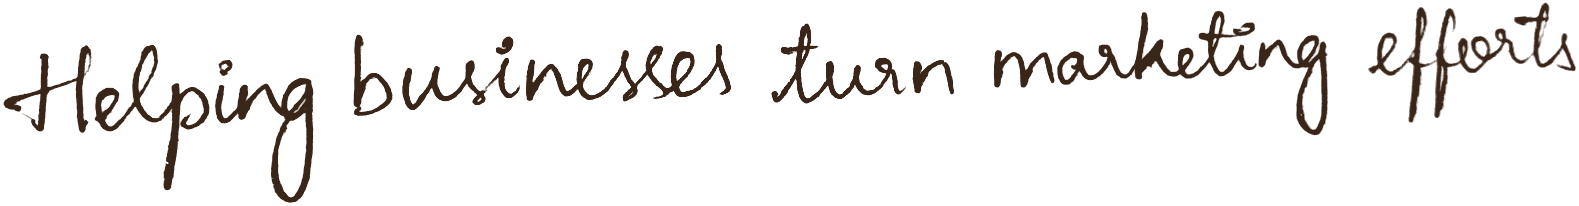
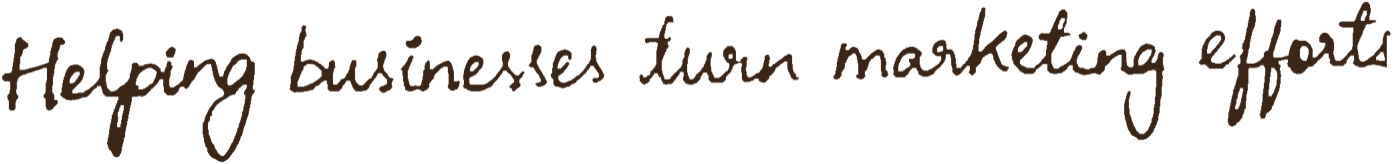
Handwriting: new samples, ruled lines removed, word gaps evened, lines straightened to match her name

Changed region(s): [[0.0, 0.0, 1.0, 1.0]]

diff --git a/index.html b/index.html
@@ -11,11 +11,11 @@
 <link rel="preconnect" href="https://fonts.googleapis.com" />
 <link rel="preconnect" href="https://fonts.gstatic.com" crossorigin />
 <link href="https://fonts.googleapis.com/css2?family=Fraunces:opsz,wght,SOFT@9..144,400..800,50&display=swap" rel="stylesheet" />
-<link rel="stylesheet" href="styles/main.css?v=20261111q" />
+<link rel="stylesheet" href="styles/main.css?v=20261111r" />
 <link rel="icon" type="image/png" href="assets/logo-hy.png" />
 <!-- first-screen images: start downloading immediately (keep ?v in sync with ASSET_V in app.js) -->
-<link rel="preload" as="image" href="assets/objects/notebook.avif?v=20261111q" fetchpriority="high" />
-<link rel="preload" as="image" href="assets/signature.png?v=20261111q" fetchpriority="high" />
+<link rel="preload" as="image" href="assets/objects/notebook.avif?v=20261111r" fetchpriority="high" />
+<link rel="preload" as="image" href="assets/signature.png?v=20261111r" fetchpriority="high" />
 
 <!-- JSON-LD -->
 <script type="application/ld+json">
@@ -177,6 +177,6 @@
 <script src="vendor/ScrollTrigger.min.js"></script>
 <script src="vendor/lenis.min.js"></script>
 
-<script type="module" src="scripts/app.js?v=20261111q"></script>
+<script type="module" src="scripts/app.js?v=20261111r"></script>
 </body>
 </html>

diff --git a/scripts/app.js b/scripts/app.js
@@ -1,9 +1,9 @@
 // app.js — motion orchestration, desk interactions, section rendering.
-import { play, playFile } from "./sound.js?v=20261111q";
-import { initMusic } from "./music.js?v=20261111q";
+import { play, playFile } from "./sound.js?v=20261111r";
+import { initMusic } from "./music.js?v=20261111r";
 import {
   meta, about, kit, tools, experience, projects, playlist,
-} from "./content.js?v=20261111q";
+} from "./content.js?v=20261111r";
 
 const { gsap, ScrollTrigger, Lenis } = window;
 gsap.registerPlugin(ScrollTrigger);
@@ -13,7 +13,7 @@ const isMobile = matchMedia("(max-width: 860px)").matches;
 const $ = (s, r = document) => r.querySelector(s);
 const $$ = (s, r = document) => [...r.querySelectorAll(s)];
 // bump with the ?v= in index.html whenever an image in assets/ is replaced, so browsers refetch it
-const ASSET_V = "20261111q";
+const ASSET_V = "20261111r";
 
 // ------------------------------------------------------------------
 // Single shared RAF: Lenis + GSAP ticker

diff --git a/scripts/content.js b/scripts/content.js
@@ -58,8 +58,8 @@ export const kit = [
       // her own handwriting for the title and tagline (transparent PNGs, ink #3A2618).
       // Each entry = the lines of one block; the text above stays for screen readers / search.
       hand: [
-        [{ src: "assets/hand-title.png", w: 1310, h: 291, tilt: 2 }],
-        [{ src: "assets/hand-tagline-1.png", w: 1579, h: 206, tilt: 1.4 }, { src: "assets/hand-tagline-2.png", w: 895, h: 147, tilt: 2.4 }],
+        [{ src: "assets/hand-title.png", w: 1400, h: 285, tilt: 1.7 }],
+        [{ src: "assets/hand-tagline-1.png", w: 1393, h: 164, tilt: 1.2 }, { src: "assets/hand-tagline-2.png", w: 842, h: 131, tilt: 1.2 }],
       ] },
     desk: { x: 19, y: 12, w: 58, r: -10 },
     chaos: { x: 3, y: 53, w: 38, r: 0 },   // chaos mode: pushed to the bottom-left corner

diff --git a/styles/main.css b/styles/main.css
@@ -311,11 +311,11 @@ section { position: relative; }
 .hand { height: auto; display: block; }
 .kit__type .hand[src*="hand-title"] { width: 40cqw; }
 .kit__type .hand[src*="hand-tagline-1"] { width: 58cqw; }
-.kit__type .hand[src*="hand-tagline-2"] { width: 32.9cqw; margin-top: -1.4cqw; }
+.kit__type .hand[src*="hand-tagline-2"] { width: 35cqw; margin-top: -.6cqw; }
 .kit__sign + .kit__type:has(.hand) { margin-top: 2.2cqw; }
 .chaos-ink__title .hand { width: 21cqw; }
 .chaos-ink__tag .hand[src*="hand-tagline-1"] { width: 30.4cqw; }
-.chaos-ink__tag .hand[src*="hand-tagline-2"] { width: 17.2cqw; margin-top: -.75cqw; }
+.chaos-ink__tag .hand[src*="hand-tagline-2"] { width: 18.4cqw; margin-top: -.3cqw; }
 
 /* instax mini print: warm white frame, 3:4 photo window, deeper bottom margin */
 .print {

diff --git a/scripts/music.js b/scripts/music.js
@@ -7,7 +7,7 @@
 //    press of play, so nothing from Spotify loads until a visitor asks for music.
 //    Logged-in Spotify users hear full songs; everyone else hears 30-second previews.
 
-import { isMuted, setMuted } from "./sound.js?v=20261111q";
+import { isMuted, setMuted } from "./sound.js?v=20261111r";
 
 const ICON = {
   prev: '<svg viewBox="0 0 24 24" aria-hidden="true"><path d="M11 6.5v11L2.5 12zM21.5 6.5v11L13 12z"/></svg>',
